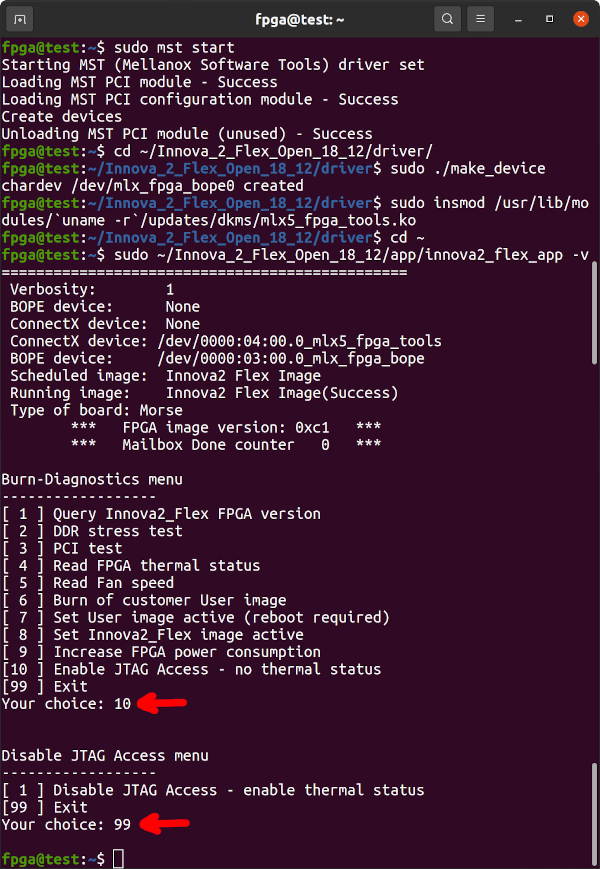
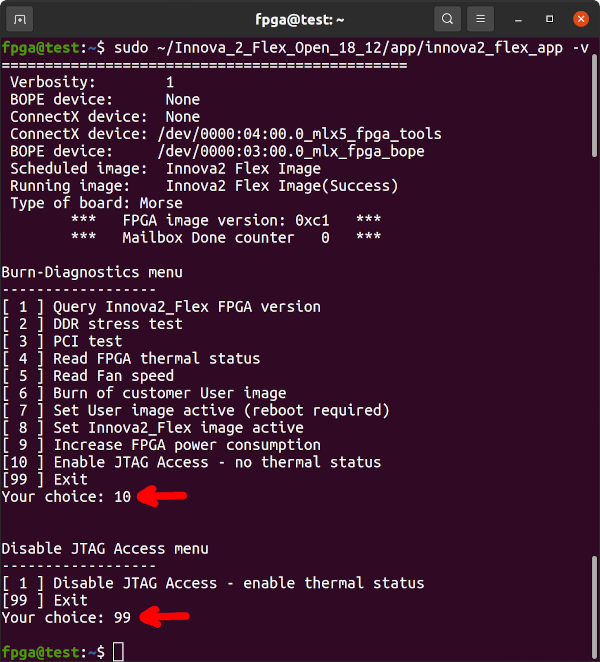
Updated README

diff --git a/README.md b/README.md
@@ -35,6 +35,7 @@ The [Nvidia Mellanox Innova-2 Flex Open Programmable SmartNIC](https://www.nvidi
    * [Troubleshooting](#troubleshooting)
       * [W25Q128JVS FLASH Failure](#w25q128jvs-flash-failure)
       * [Factory Image Running with Flex Image Scheduled](#factory-image-running-with-flex-image-scheduled)
+      * [Innova2 Flex App Will Not Program](#innova2-flex-app-will-not-program)
       * [DDR4 Communication Error](#ddr4-communication-error)
       * [JTAG Programming Failure](#jtag-programming-failure)
       * [innova2_flex_app stuck on Erasing Flash](#innova2_flex_app-stuck-on-erasing-flash)
@@ -765,7 +766,8 @@ In order for `innova2_flex_app` to program a User Image into the FPGA's configur
 
 #### Enable JTAG Access to the XCKU15P
 
-The Innova-2's ConnectX-5 firmware and FPGA Factory/Flex Image communicate to prevent JTAG access to the FPGA Configuration Memory outside of `innova2_flex_app`. JTAG still works with the FPGA but access to the FPGA Configuration Memory is blocked by the ConnectX-5. The ConnectX-5 controls the Write-Protect pins of the MT25QU512 ICs. JTAG must be enabled in `innova2_flex_app` before continuing. Note that if your Innova-2 already has up-to-date Factory and Flex images that work with `innova2_flex_app` (notice the `FPGA image version: 0xc1` below) then proceed to [Loading User a Image](#loading-a-user-image). Otherwise, run `innova2_flex_app` and choose option `10`-enter to enable JTAG then `99`-enter to exit.
+The Innova-2's ConnectX-5 firmware and FPGA Factory/Flex Image communicate to prevent JTAG access to the FPGA Configuration Memory outside of `innova2_flex_app`. JTAG still works with the FPGA but access to the FPGA Configuration Memory is blocked by the ConnectX-5. The ConnectX-5 controls the Write-Protect pins of the MT25QU512 ICs. JTAG must be enabled in `innova2_flex_app` before continuing. Note that if your Innova-2 already has up-to-date Factory and Flex images that work with `innova2_flex_app` (notice the `FPGA image version: 0xc1` below) then proceed to [Loading User a Image](#loading-a-user-image).
+
 ```Shell
 sudo mst start
 sudo mst status
@@ -779,7 +781,12 @@ cd ~
 sudo ~/Innova_2_Flex_Open_18_12/app/innova2_flex_app -v
 ```
 
+![Flex Image Version](img/Flex_Image_Version.png)
+
+Otherwise, run `innova2_flex_app` and choose option `10`-enter to enable JTAG then `99`-enter to exit.
+
 ![Enable JTAG](img/Enable_JTAG_Access.png)
+
 
 
 #### Generate Configuration Images for the Full Memory Array
@@ -885,6 +892,8 @@ sudo reboot
 ### Loading a User Image
 
 These instructions include a link to a bitstream for a working demo. Otherwise, after Vivado generates a programming Bitstream for your design, run *Write Memory Configuration File*, select *bin*, *mt25qu512_x1_x2_x4_x8*, *SPIx8*, *Load bitstream files*, and a location and name for the output binary files. The bitstream will end up, for example, in the `DESIGN_NAME/DESIGN_NAME.runs/impl_1` subdirectory as `SOMETHING.bit`. Vivado will add the `_primary.bin` and `_secondary.bin` extensions as the Innova-2 uses dual MT25QU512 FLASH ICs in x8 for high speed programming.
+
+![Vivado Tools Generate Memory Configuration File](img/Vivado_Tools_Generate_Memory_Configuration_File.png)
 
 ![Vivado Write Memory Configuration File](img/Vivado_Write_Memory_Configuration_File.png)
 
@@ -1001,6 +1010,28 @@ The *Factory Image* (FLASH IC Address `0x00000000`) is *Running* even though the
 Enable JTAG and [program the FPGA Configuration Memory to factory default](#programming-the-fpga).
 
 ![Factory Image Running](img/Factory_Image_Running_Enable_JTAG.png)
+
+
+### Innova2 Flex App Will Not Program
+
+Confirm the ConnectX and BOPE Devices are present when running `innova2_flex_app -v`.
+
+![ConnectX and BOPE Devices Present](innova2_flex_app_ConnectX_and_BOPE_Devices.png)
+
+The ConnectX device is created by running `insmod /usr/lib/modules/5.8.0-43-generic/updates/dkms/mlx5_fpga_tools.ko`
+
+The BOPE device is created by running `~/Innova_2_Flex_Open_18_12/driver/make_device`. BOPE will fail to load if the FPGA Image is not compatible with your `innova2_flex_app` version. [Programm the FPGA](#programming-the-fpga).
+
+```
+cd ~
+sudo mst start
+sudo mst status
+sudo mst status -v
+sudo flint -d /dev/mst/mt4119_pciconf0 q
+cd ~/Innova_2_Flex_Open_18_12/driver/
+sudo ./make_device
+sudo insmod /usr/lib/modules/`uname -r`/updates/dkms/mlx5_fpga_tools.ko
+```
 
 
 ### DDR4 Communication Error
@@ -1264,7 +1295,7 @@ If all goes well your design will meet timing requirements:
 * OpenCAPI [OpenPower Advanced Accelerator Adapter Electro-Mechanical Specification](https://files.openpower.foundation/s/xSQPe6ypoakKQdq/download/25Gbps-spec-20171108.pdf)
 * OpenCAPI [SlimSAS Connector U10-J074-24 or U10-K274-26](https://www.amphenol-cs.com/media/wysiwyg/files/documentation/datasheet/inputoutput/hsio_cn_slimsas_u10.pdf)
 * [SlimSAS Cable SFF-8654 8i 85-Ohm](https://www.sfpcables.com/24g-internal-slimsas-sff-8654-to-sff-8654-8i-cable-straight-to-90-degree-left-angle-8x-12-sas-4-0-85-ohm-0-5-1-meter) or [RSL74-0540](http://www.amphenol-ast.com/v3/en/product_view.aspx?id=235) or [8ES8-1DF21-0.50](https://www.3m.com/3M/en_US/p/d/b5000000278/), [8ES8-1DF Datasheet](https://multimedia.3m.com/mws/media/1398233O/3m-slimline-twin-ax-assembly-sff-8654-x8-30awg-78-5100-2665-8.pdf)
-* According to the [FCC](https://fccid.io/RR-MLN-NV303212A) the board may also be labeled with: 01PG974 SN37A28065 SN37A28065 SN37A48123 01FT833 MNV303212A-ADAT_C18 MNV303212A-ADLS NV303212A
+* According to the [FCC](https://fccid.io/RR-MLN-NV303212A) the board may also be labeled with: RR-MLN-NV303212A 01PG974 SN37A28065 SN37A48123 01FT833 MNV303212A-ADAT_C18 MNV303212A-ADLS NV303212A
 * I have also seen the Innova-2 labeled: Innova-2 Flex VPI - IBM 01FT833_Ax - MNV303212A-ADIT - MNV303212A-ADAT - MNV303212A-ADL_Ax - DP/N 0NMD3R - NMD3R - FRU PN: 01PG974
 * MNV303212A-AD**I**T and MNV303212A-AD**A**T are [EOL](https://network.nvidia.com/pdf/eol/LCR-000437.pdf) **4GB** variants of the Innova-2 which may not work with any of my projects
 * DDR4 Memory ICS are [MT40A1G16KNR-075](https://media-www.micron.com/-/media/client/global/documents/products/data-sheet/dram/ddr4/ddr4_16gb_x16_1cs_twindie.pdf) x16 Twin Die with **D9WFR** [FBGA Code](https://www.micron.com/support/tools-and-utilities/fbga?fbga=D9WFR#pnlFBGA)
@@ -1272,7 +1303,6 @@ If all goes well your design will meet timing requirements:
 * If trying to improve PCIe DMA communication on server class systems with 64GB+ of RAM, explore [hugepages](https://wiki.debian.org/Hugepages) support from the [Linux Kernel](https://www.kernel.org/doc/Documentation/vm/hugetlbpage.txt)
 * [Mipsology's Zebra AI Accelerator](https://www.globenewswire.com/en/news-release/2018/11/08/1648425/0/en/Mipsology-Delivers-Deep-Learning-Inference-at-20X-Speedup-versus-Midrange-Xeon-CPU-Leveraging-Mellanox-SmartNIC-Adapters.html) used to be based on the Innova-2
 * A team associated with [Nvidia Networking](https://developer.nvidia.com/networking/ethernet-adapters) has the [FlexDriver](https://haggaie.github.io/files/flexdriver-preprint-asplos22.pdf) project which can supposedly do direct NIC-to-FPGA Bump-In-The-Wire processing. How? How do you set up the ConnectX-5 to communicate directly with the FPGA without the Host System as an intermediary?
-* [Example](https://github.com/acsl-technion/flexdriver-zuc/blob/688c44720cd7bc13e5e05dbf0695ef95a2e64afa/run_project.tcl#L164) for automating binary Memory  Configuration File generation
 * [AWS Vivado 2021.2 Developer AMI](https://aws.amazon.com/marketplace/pp/prodview-53u3edtjtp2fe) provides by-the-hour full licensed access to Vivado
 * [ServeTheHome Forum](https://forums.servethehome.com/index.php?threads/mellanox-innova2-connect-x-5-25gbps-sfp28-and-xilinx-kintex-ultrascale-dpu-250-bestoffer.31993/) post regarding the Innova-2
 * [EEVblog Forum](https://www.eevblog.com/forum/repair/how-to-test-salvageable-xilinx-ultrascale-board-from-ebay/?all) post regarding the Innova-2
